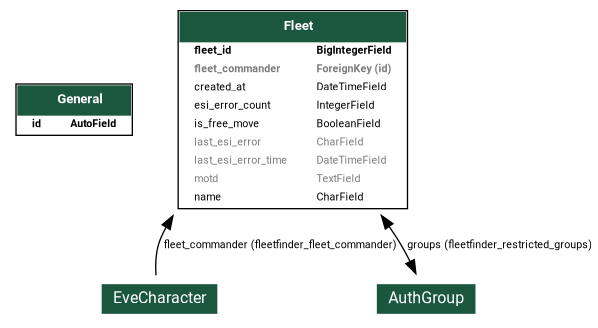
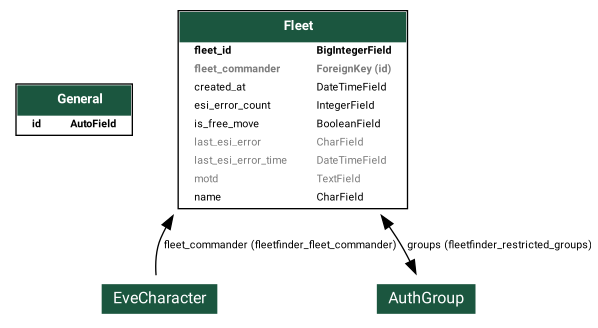
Merge pull request #274 from ppfeufer/release/v3.3.0
[RELEASE] v3.3.0

Pull request: [RELEASE] v3.3.0
## [3.3.0] - 2026-06-02

### Changed

- Modular providers

diff --git a/fleetfinder/__init__.py b/fleetfinder/__init__.py
@@ -5,7 +5,7 @@ Initialize the app
 # Django
 from django.utils.translation import gettext_lazy as _
 
-__version__ = "3.2.5"
+__version__ = "3.3.0"
 __title__ = "Fleet Finder"
 __title_translated__ = _("Fleet Finder")
 __verbose_name__ = "Fleet Finder for Alliance Auth"

diff --git a/CHANGELOG.md b/CHANGELOG.md
@@ -37,6 +37,8 @@ Section Order:
 
 <!-- Your changes go here -->
 
+## [3.3.0] - 2026-06-02
+
 ### Changed
 
 - Modular providers
@@ -121,7 +123,7 @@ Section Order:
 
 ### Changed
 
-- Dependency to `django-esi` set to `>=8.0.0,<9` (for real this time …)
+- Dependency to `django-esi` set to `>=8.0.0,<9` (for real this time…)
 
 ## [3.0.0] - 2025-11-12
 
@@ -753,7 +755,8 @@ App forked from [Dreadbomb/aa-fleet]
 [3.2.3]: https://github.com/ppfeufer/aa-fleetfinder/compare/v3.2.2...v3.2.3 "v3.2.3"
 [3.2.4]: https://github.com/ppfeufer/aa-fleetfinder/compare/v3.2.3...v3.2.4 "v3.2.4"
 [3.2.5]: https://github.com/ppfeufer/aa-fleetfinder/compare/v3.2.4...v3.2.5 "v3.2.5"
+[3.3.0]: https://github.com/ppfeufer/aa-fleetfinder/compare/v3.2.5...v3.3.0 "v3.3.0"
 [dreadbomb/aa-fleet]: https://github.com/Dreadbomb/aa-fleet "Dreadbomb/aa-fleet"
-[in development]: https://github.com/ppfeufer/aa-fleetfinder/compare/v3.2.5...HEAD "In Development"
+[in development]: https://github.com/ppfeufer/aa-fleetfinder/compare/v3.3.0...HEAD "In Development"
 [keep a changelog]: http://keepachangelog.com/ "Keep a Changelog"
 [semantic versioning]: http://semver.org/ "Semantic Versioning"

diff --git a/README.md b/README.md
@@ -49,7 +49,7 @@ ______________________________________________________________________
 Make sure you're in the virtual environment (venv) of your Alliance Auth installation Then install the latest release directly from PyPi.
 
 ```shell
-pip install aa-fleetfinder==3.2.5
+pip install aa-fleetfinder==3.3.0
 ```
 
 ### Step 2: Configure Alliance Auth<a name="step-2-configure-alliance-auth"></a>